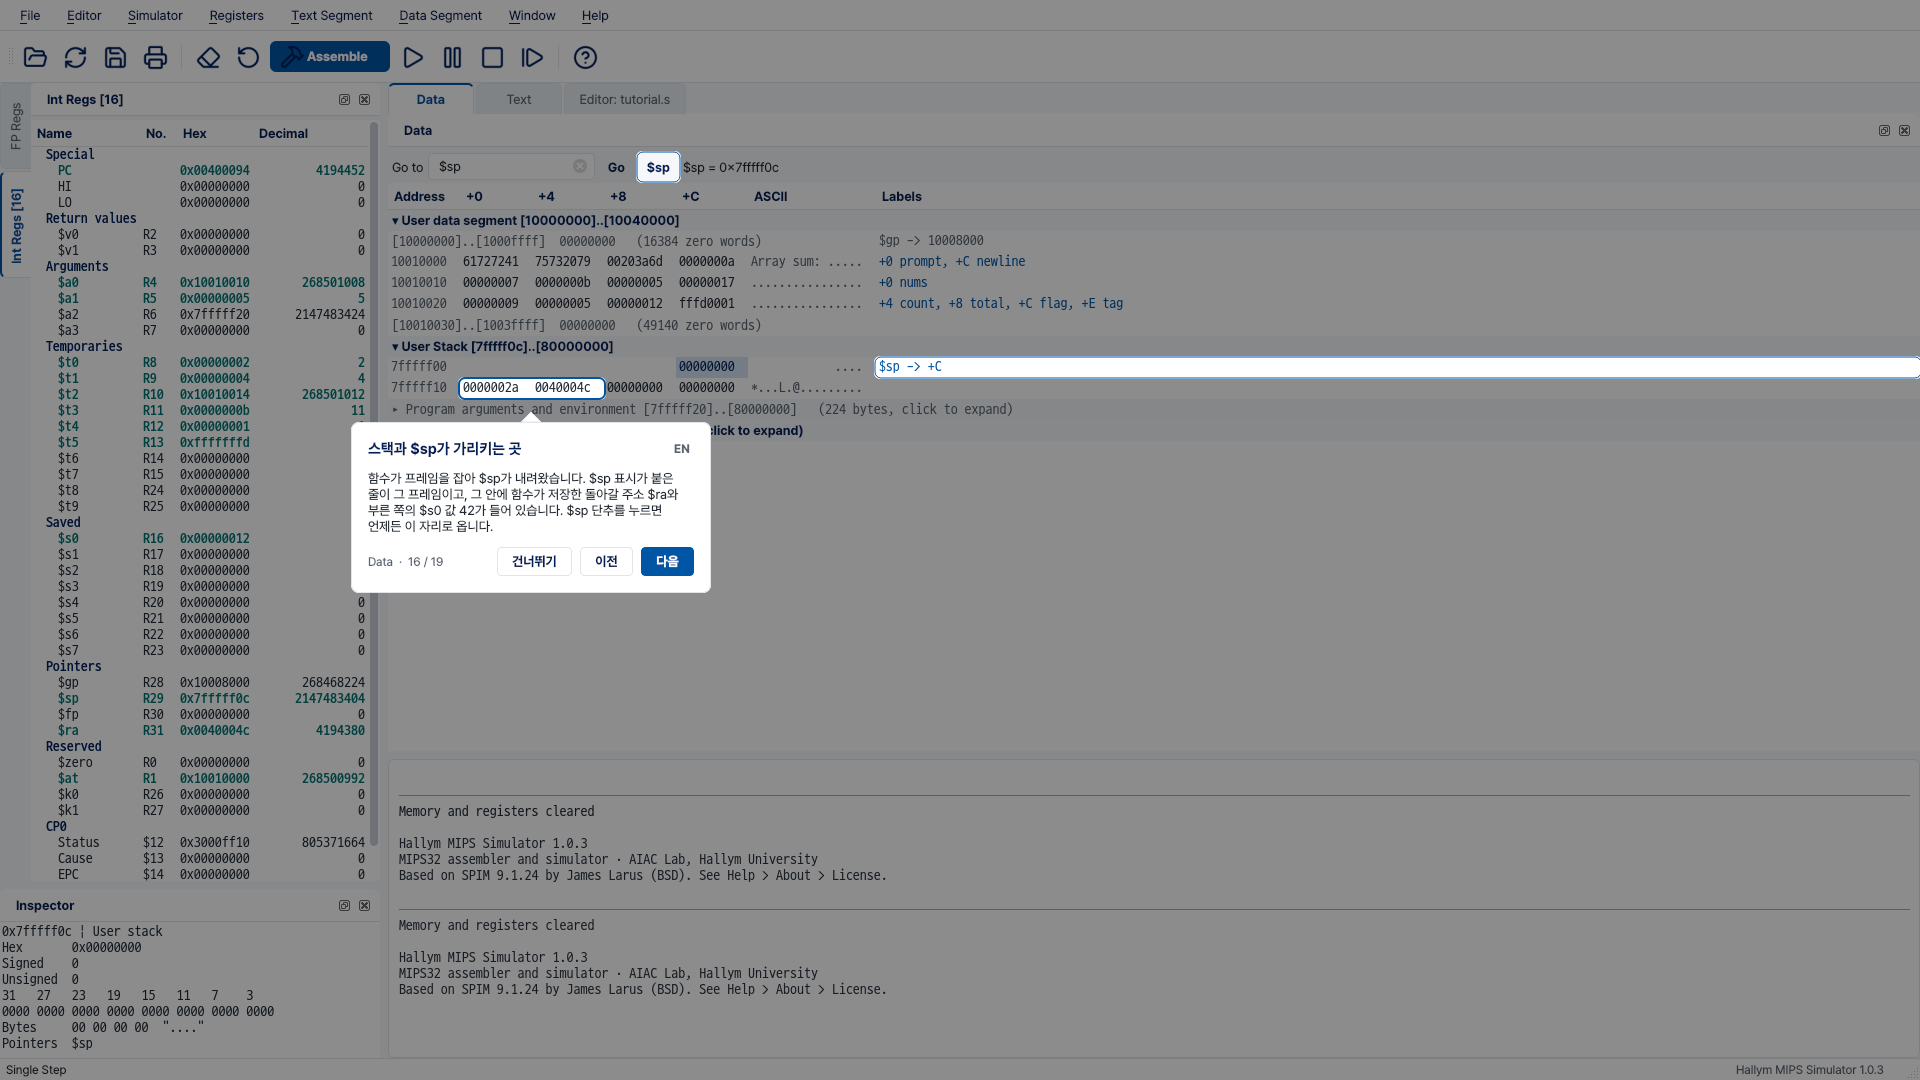
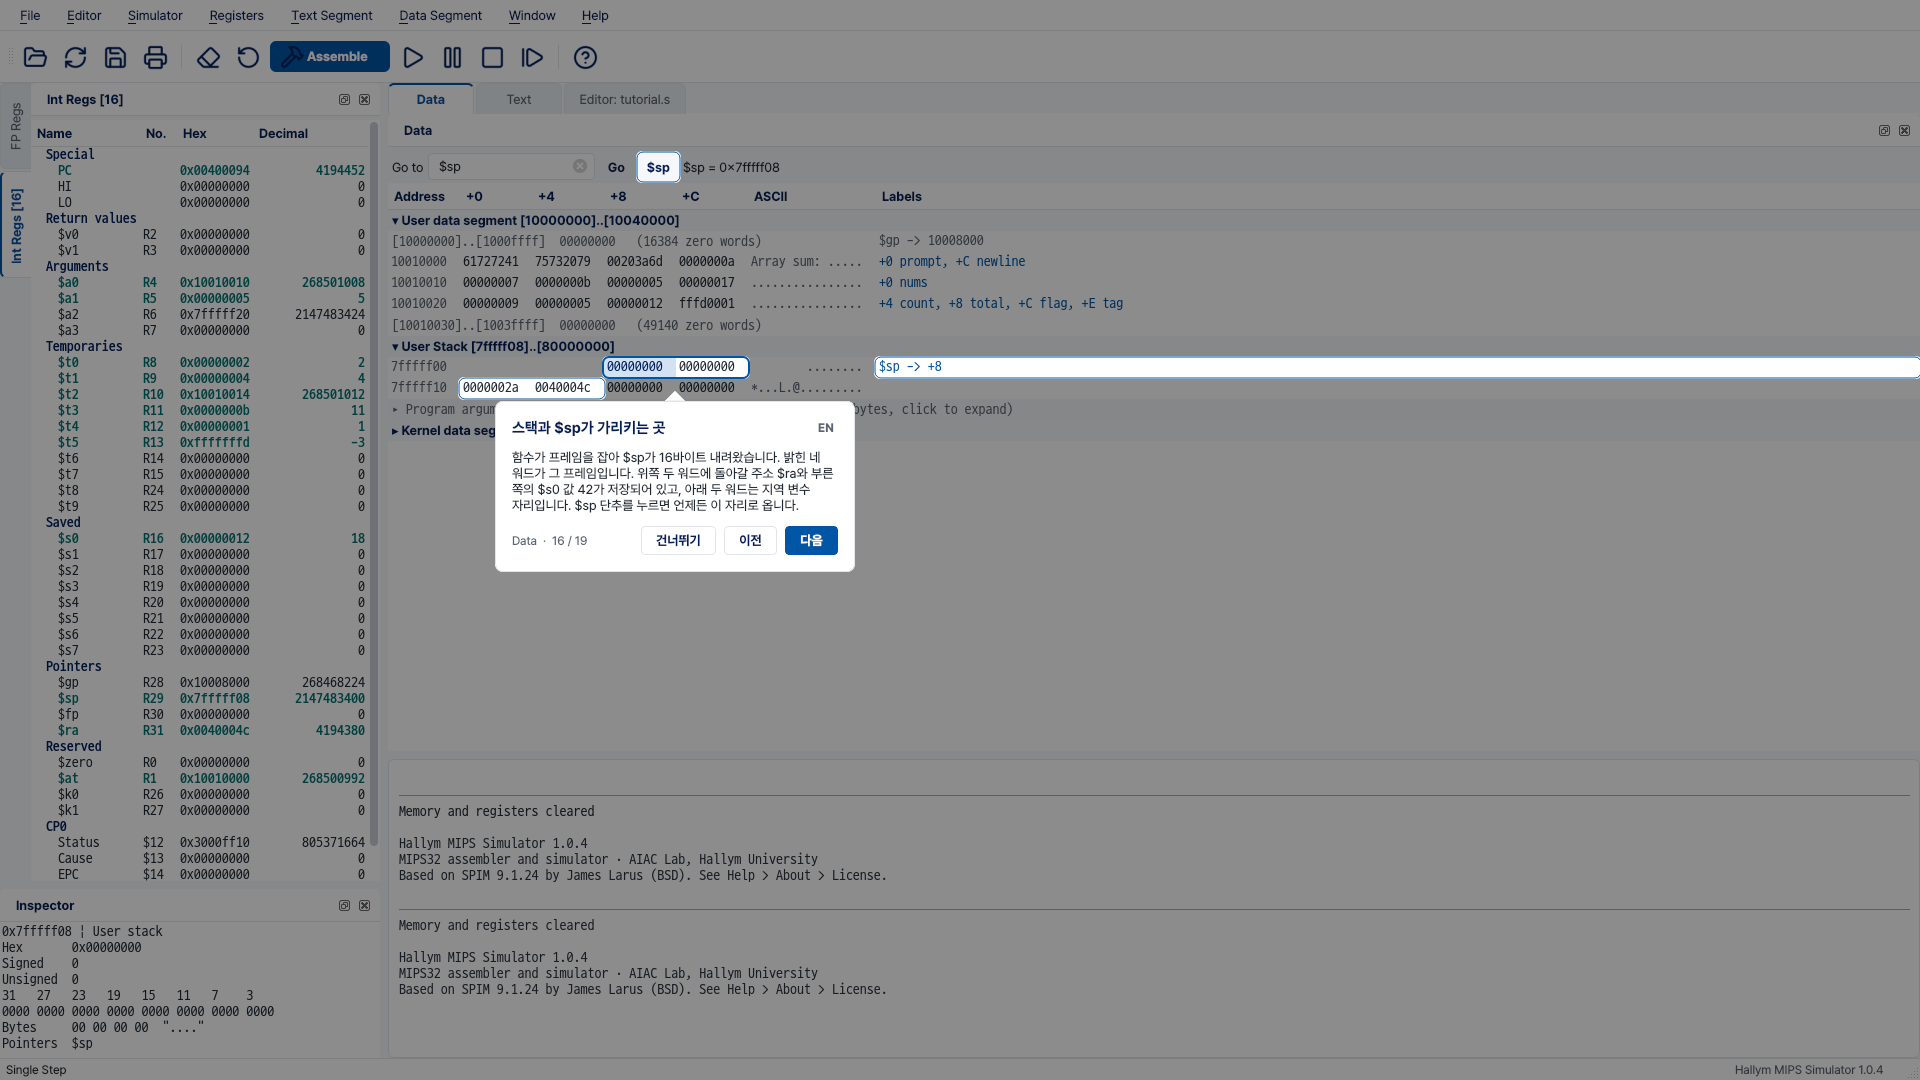
[H2] the example keeps the stack 8-byte aligned
A twelve-byte frame leaves $sp on a four-byte boundary, which the MIPS
ABI does not allow and a marker would take points off for.  The frame is
sixteen bytes now, with the return address at 12($sp) and the caller's
$s0 at 8($sp) as the convention has it, the two words below left as room
for locals, and a line of the comment saying why.  The program still
prints 55 and still gives $s0 back as 42.

The tour's stack step does not know those offsets: it lights the four
words from $sp up, one rectangle per row of memory, because a frame
straddles two sixteen-byte rows as often as not and a single rectangle
around both would cover words that are not in the frame.

Changed region(s): [[0.1562, 0.3056, 0.4688, 0.55], [0.9062, 0.9778, 0.9688, 1.0]]

diff --git a/QtSpim/edu/edu_tutorial.cpp b/QtSpim/edu/edu_tutorial.cpp
@@ -235,12 +235,15 @@ const EduTutorial::Step EduTutorial::kStepData[] = {
 
     {EduTutorial::DataStack, "Data", "Data",
      "스택과 $sp가 가리키는 곳",
-     "함수가 프레임을 잡아 $sp가 내려왔습니다. $sp 표시가 붙은 줄이 그 프레임이고, 그 안에 함수가 저장한 돌아갈 주소 "
-     "$ra와 부른 쪽의 $s0 값 42가 들어 있습니다. $sp 단추를 누르면 언제든 이 자리로 옵니다.",
+     "함수가 프레임을 잡아 $sp가 16바이트 내려왔습니다. 밝힌 네 워드가 "
+     "그 프레임입니다. 위쪽 두 워드에 돌아갈 주소 $ra와 부른 쪽의 $s0 값 "
+     "42가 저장되어 있고, 아래 두 워드는 지역 변수 자리입니다. $sp 단추를 "
+     "누르면 언제든 이 자리로 옵니다.",
      "The stack, and where $sp points",
-     "The function made a frame, so $sp has come down. The row marked $sp is "
-     "that frame, and inside it are the return address the function saved and "
-     "the caller's $s0, 42. The $sp button jumps here at any time."},
+     "The function made a frame, so $sp has come down by sixteen bytes. The "
+     "four words lit up are that frame: the upper two hold the return address "
+     "and the caller's $s0, 42, and the lower two are room for locals. The "
+     "$sp button jumps here at any time."},
 
     {EduTutorial::DataEnvironment, "Data", "Data",
      "환경변수 영역은 접어 둔다",
@@ -404,7 +407,18 @@ EduTutorial::EduTutorial(SpimView* window)
 
 void EduTutorial::setProgramLoaded(bool loaded) { programLoaded_ = loaded; }
 
+QString EduTutorial::titleText() const { return title_->text(); }
+
 QString EduTutorial::bodyText() const { return body_->text(); }
+
+void EduTutorial::setKorean(bool korean) {
+  if (korean_ == korean || steps_.isEmpty()) {
+    korean_ = korean;
+    return;
+  }
+  korean_ = korean;
+  showStep(current_);
+}
 
 QRect EduTutorial::cardRect() const { return card_->geometry(); }
 
@@ -924,16 +938,32 @@ bool EduTutorial::collectSpots(StepId id, QList<QRect>* spots, QString* tip,
         ui->DataSegPanel->goTo("$sp");
         QApplication::processEvents(QEventLoop::ExcludeUserInputEvents);
         const QRect marker = dataLabelCellAt(pointer);
-        QRect saved;
-        for (int offset = 4; offset <= 8; offset += 4) {
-          const QRect cell = dataCellAt(pointer + quint32(offset));
-          saved = saved.isEmpty() ? cell : saved.united(cell);
+        // The frame itself, from $sp up: four words for the example's
+        // sixteen-byte frame, wherever inside it the saved values sit.  A
+        // frame straddles two rows of sixteen bytes as often as not, and
+        // one rectangle around both would cover words outside it, so each
+        // row is lit on its own.
+        QList<QRect> frame;
+        int lastRow = -1;
+        for (int offset = 0; offset < 16; offset += 4) {
+          const quint32 address = pointer + quint32(offset);
+          const QModelIndex word = model->reveal(address);
+          const QRect cell = dataCellAt(address);
+          if (!word.isValid() || cell.isEmpty()) {
+            continue;
+          }
+          if (word.row() == lastRow && !frame.isEmpty()) {
+            frame.last() = frame.last().united(cell);
+          } else {
+            frame << cell;
+            lastRow = word.row();
+          }
         }
-        if (marker.isEmpty() && saved.isEmpty()) {
+        if (marker.isEmpty() && frame.isEmpty()) {
           return false;
         }
-        if (!saved.isEmpty()) {
-          *spots << saved.adjusted(-2, -1, 2, 1);
+        for (int i = 0; i < frame.size(); i += 1) {
+          *spots << frame.at(i).adjusted(-2, -1, 2, 1);
         }
         if (!marker.isEmpty()) {
           *spots << marker.adjusted(-2, -1, 2, 1);

diff --git a/QtSpim/edu/edu_tutorial.h b/QtSpim/edu/edu_tutorial.h
@@ -91,7 +91,15 @@ class EduTutorial : public QWidget {
   void setProgramLoaded(bool loaded);
 
   // The card's text, for the harness.
+  QString titleText() const;
   QString bodyText() const;
+
+  // Between start() and finish(), whatever the window manager is doing.
+  bool isRunning() const { return running_; }
+
+  // The language the card is in.  The harness reads both, so it does not
+  // depend on the locale the check happens to run under.
+  void setKorean(bool korean);
 
   // Steps that were left out because what they point at was not on the
   // screen, by name.  Empty is the expected result with the example open.
